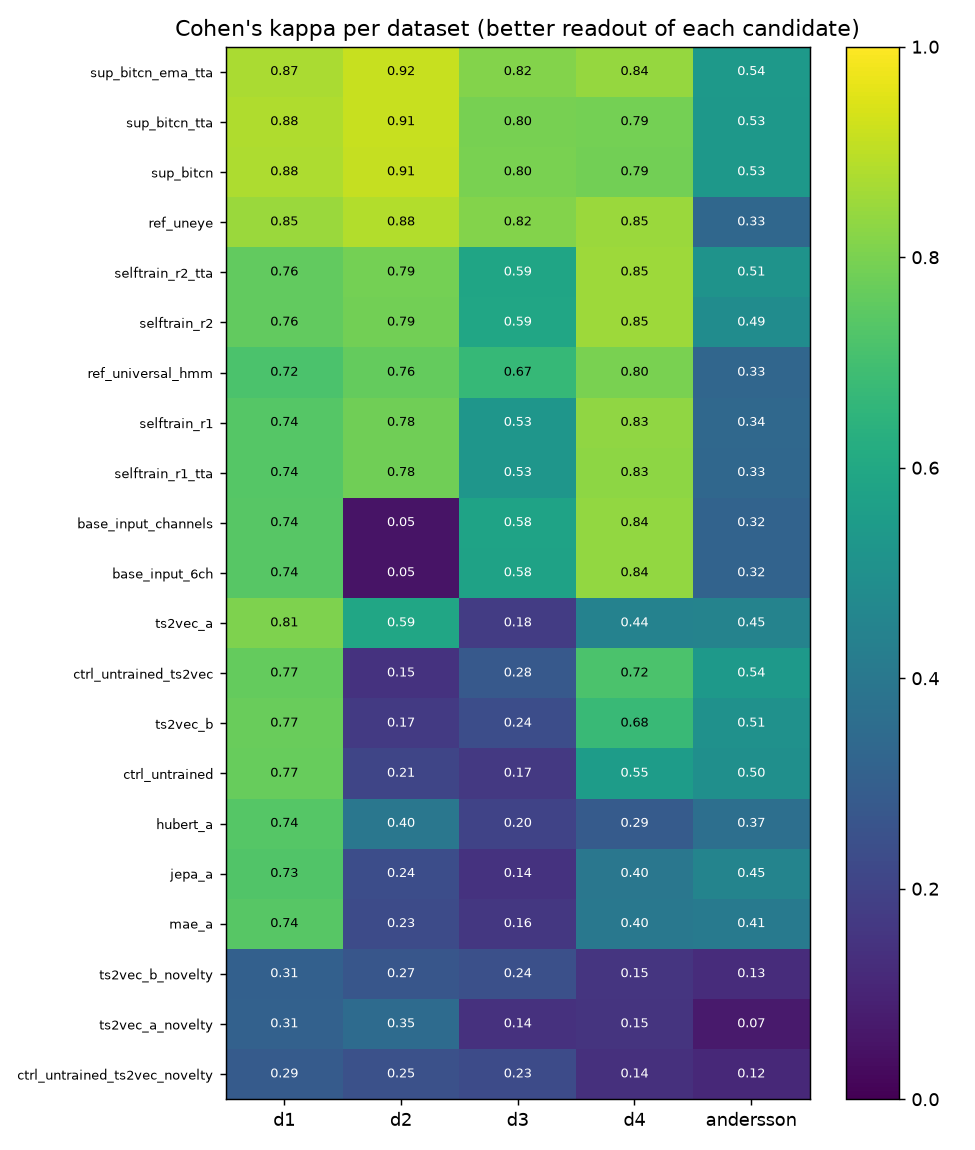
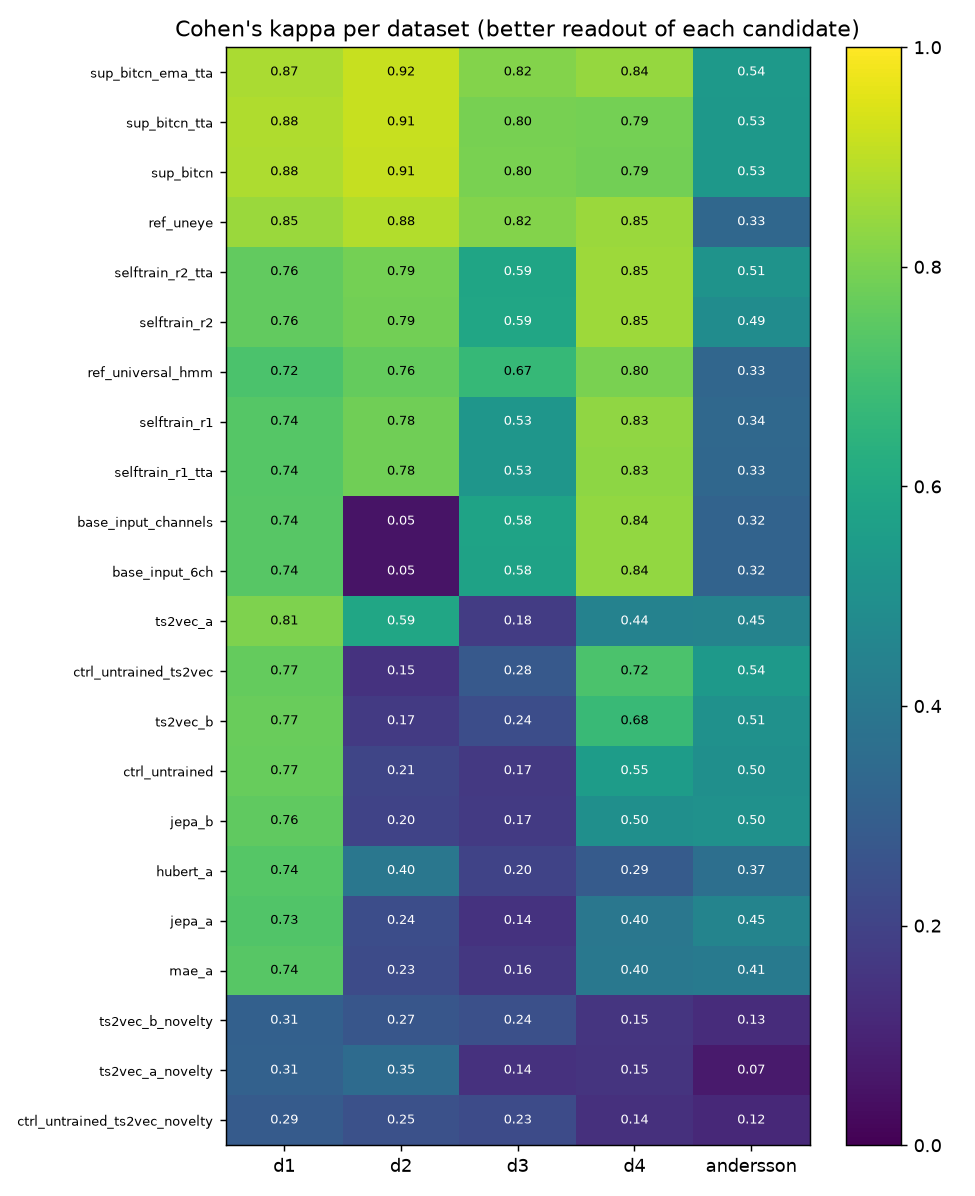
Overnight comparison: jepa_b (done)

diff --git a/docs/OVERNIGHT_REPORT.md b/docs/OVERNIGHT_REPORT.md
@@ -1,13 +1,13 @@
 # Overnight comparison of candidate architectures and training heuristics
 
-Generated 2026-10-10 01:01 by `foundation/night_report.py` from `foundation/runs/night/*.json` (MacBook Air M1, one GPU job at a time). The numbers are those of the files; nothing is typed by hand in the tables.
+Generated 2026-10-10 01:22 by `foundation/night_report.py` from `foundation/runs/night/*.json` (MacBook Air M1, one GPU job at a time). The numbers are those of the files; nothing is typed by hand in the tables.
 
 ## Summary
 
 - Best mean event F1 over the 5 benchmarks: **sup_bitcn_ema_tta** (0.88 F1, 0.80 kappa, readout: threshold); best mean kappa: **sup_bitcn_ema_tta** (0.88 / 0.80, readout: threshold).
 - Reference U'n'Eye (supervised): 0.85 F1 / 0.75 kappa on the same subsets (Andersson with its general weights is 0.55 / 0.33; with its own weights 0.89 / 0.81). The label-free universal HMM: 0.88 / 0.66.
 - Control: the random-initialised transformer encoder gives 0.48 / 0.44 (hmm): a trained encoder only counts if it beats this.
-- Steps of the night finished: 10; failed or timed out: 0.
+- Steps of the night finished: 11; failed or timed out: 0.
 
 ## Protocol (the same for every row)
 
@@ -60,6 +60,7 @@ Already tried before tonight (not repeated):
 | `ts2vec_a` | self-supervised | labels of the other 4 datasets (linear probe only); the enco | **0.61 / 0.49** | hmm | 0.61 / 0.49 | 0.38 / 0.47 | 0.85 / 0.81 | 0.62 / 0.59 | 0.44 / 0.18 | 0.44 / 0.44 | 0.72 / 0.45 | 11.7 |
 | `jepa_a` | self-supervised | labels of the other 4 datasets (linear probe only); the enco | **0.61 / 0.39** | hmm | 0.61 / 0.39 | 0.42 / 0.49 | 0.76 / 0.73 | 0.57 / 0.24 | 0.46 / 0.14 | 0.53 / 0.40 | 0.76 / 0.45 | 1.1 |
 | `hubert_a` | self-supervised | labels of the other 4 datasets (linear probe only); the enco | **0.57 / 0.40** | hmm | 0.57 / 0.40 | 0.51 / 0.55 | 0.75 / 0.74 | 0.70 / 0.40 | 0.36 / 0.20 | 0.34 / 0.29 | 0.70 / 0.37 | 37.0 |
+| `jepa_b` | self-supervised | labels of the other 4 datasets (linear probe only); the enco | **0.46 / 0.43** | hmm | 0.46 / 0.43 | 0.30 / 0.42 | 0.76 / 0.76 | 0.45 / 0.20 | 0.20 / 0.17 | 0.31 / 0.50 | 0.60 / 0.50 | 20.7 |
 | `ts2vec_a_novelty` | self-supervised | none (the encoder saw no label; no probe either) | **0.33 / 0.20** | hmm | 0.33 / 0.20 | n/a | 0.34 / 0.31 | 0.45 / 0.35 | 0.29 / 0.14 | 0.20 / 0.15 | 0.38 / 0.07 | 12.4 |
 | `ts2vec_b_novelty` | self-supervised | none (the encoder saw no label; no probe either) | **0.16 / 0.22** | hmm | 0.16 / 0.22 | n/a | 0.16 / 0.31 | 0.18 / 0.27 | 0.19 / 0.24 | 0.10 / 0.15 | 0.16 / 0.13 | 11.8 |
 | `selftrain_r1_tta` | label-free student | none for training | **0.83 / 0.64** | threshold | 0.66 / 0.63 | 0.83 / 0.64 | 0.89 / 0.74 | 0.90 / 0.78 | 0.78 / 0.53 | 0.92 / 0.83 | 0.68 / 0.33 | 4.6 |
@@ -99,6 +100,7 @@ The headline column is the better mean event F1 of the two readouts (shown separ
 | mae_a | done | 39.4 |
 | hubert_a | done | 37.2 |
 | ts2vec_b | done | 12.7 |
+| jepa_b | done | 20.9 |
 
 ## Limits
 
